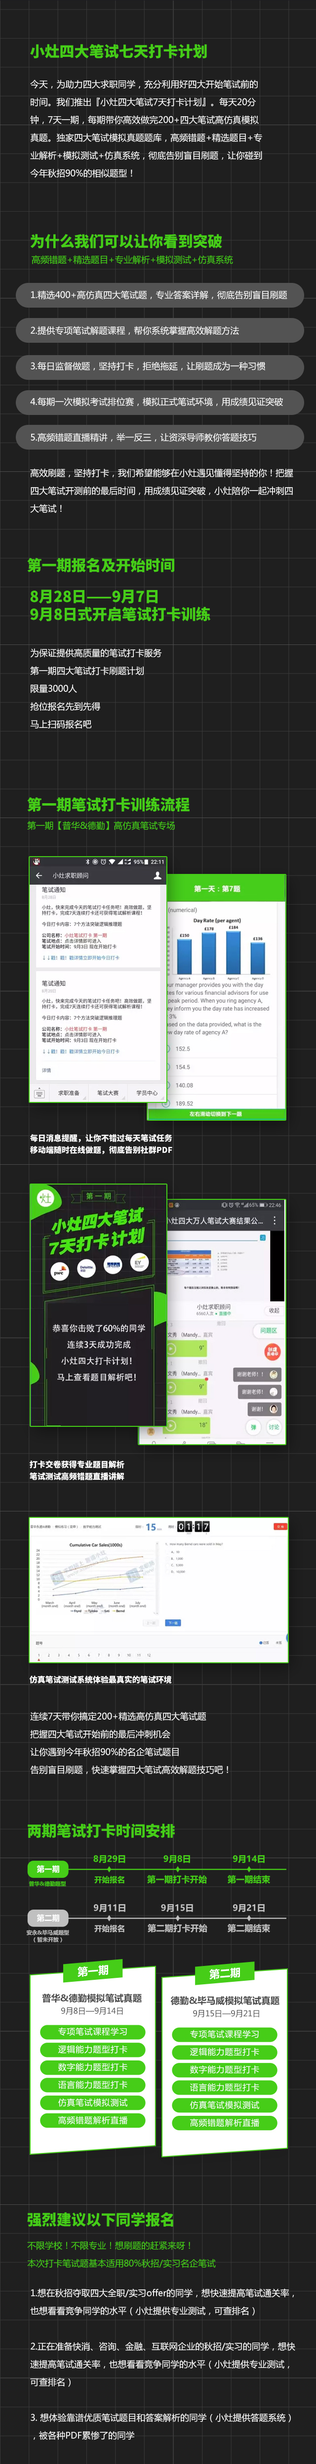
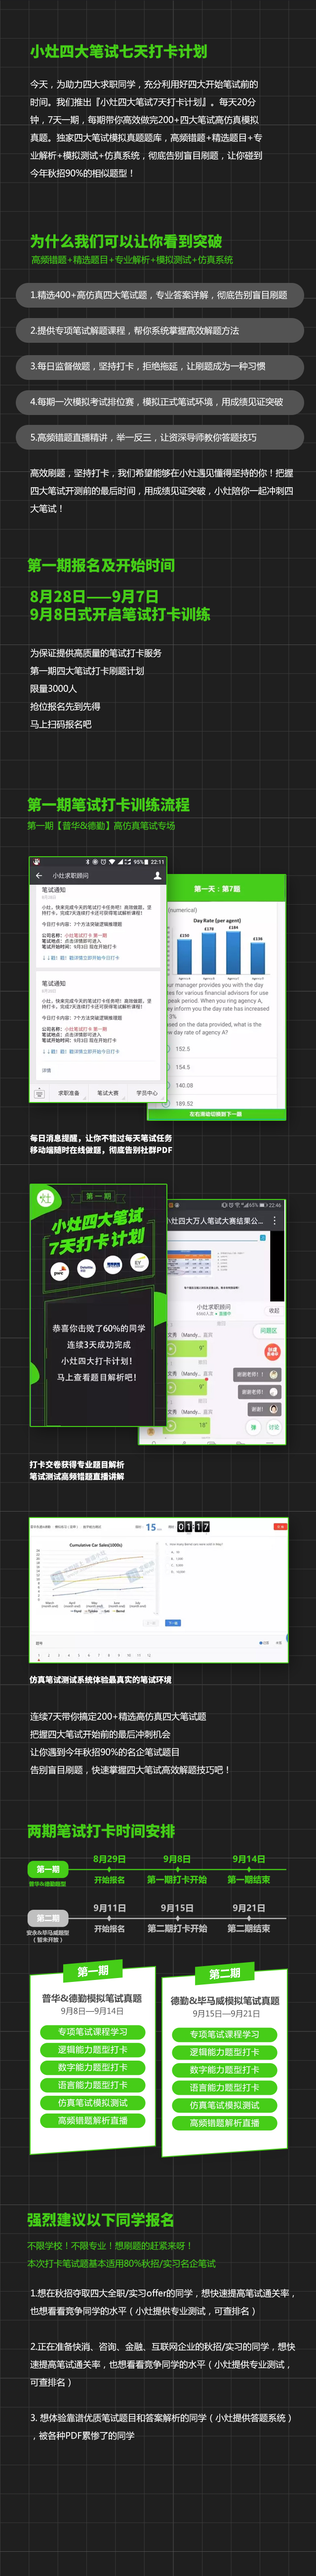
update: clock-in-intro 按钮FIXED

diff --git a/src/page/writtentestclock/clock-in-intro/index.js b/src/page/writtentestclock/clock-in-intro/index.js
@@ -72,7 +72,8 @@ export default class extends React.Component {
                     .btn-form {
                         bottom: 0;
                         width: 100%;
-                        padding-bottom: 30px;
+                        padding-bottom: 10px;
+                        position: fixed;
                     }
                     .btn-img {
                         color: #000;
